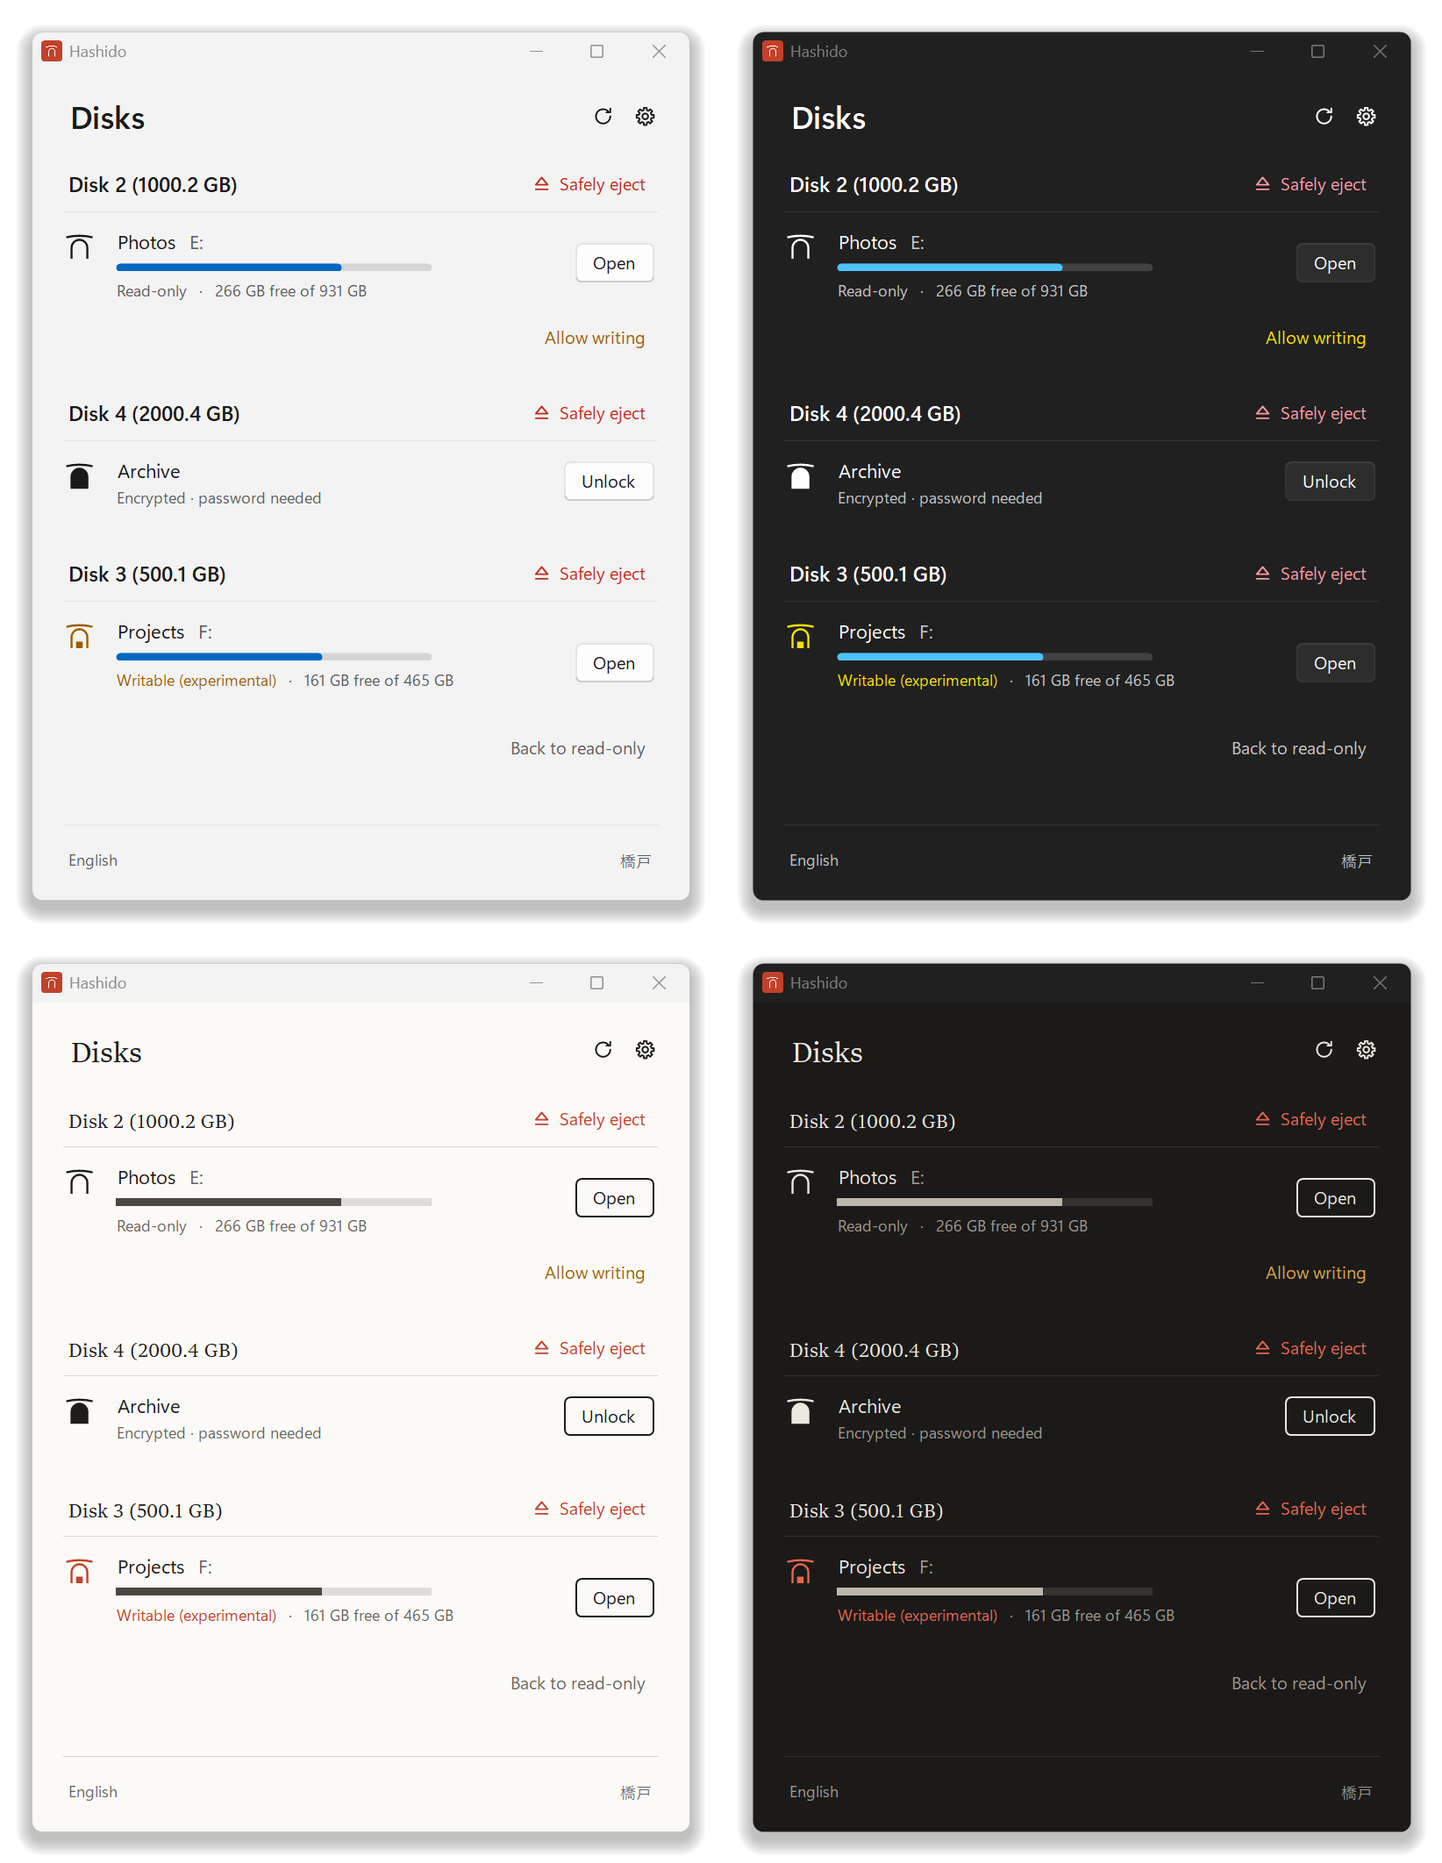
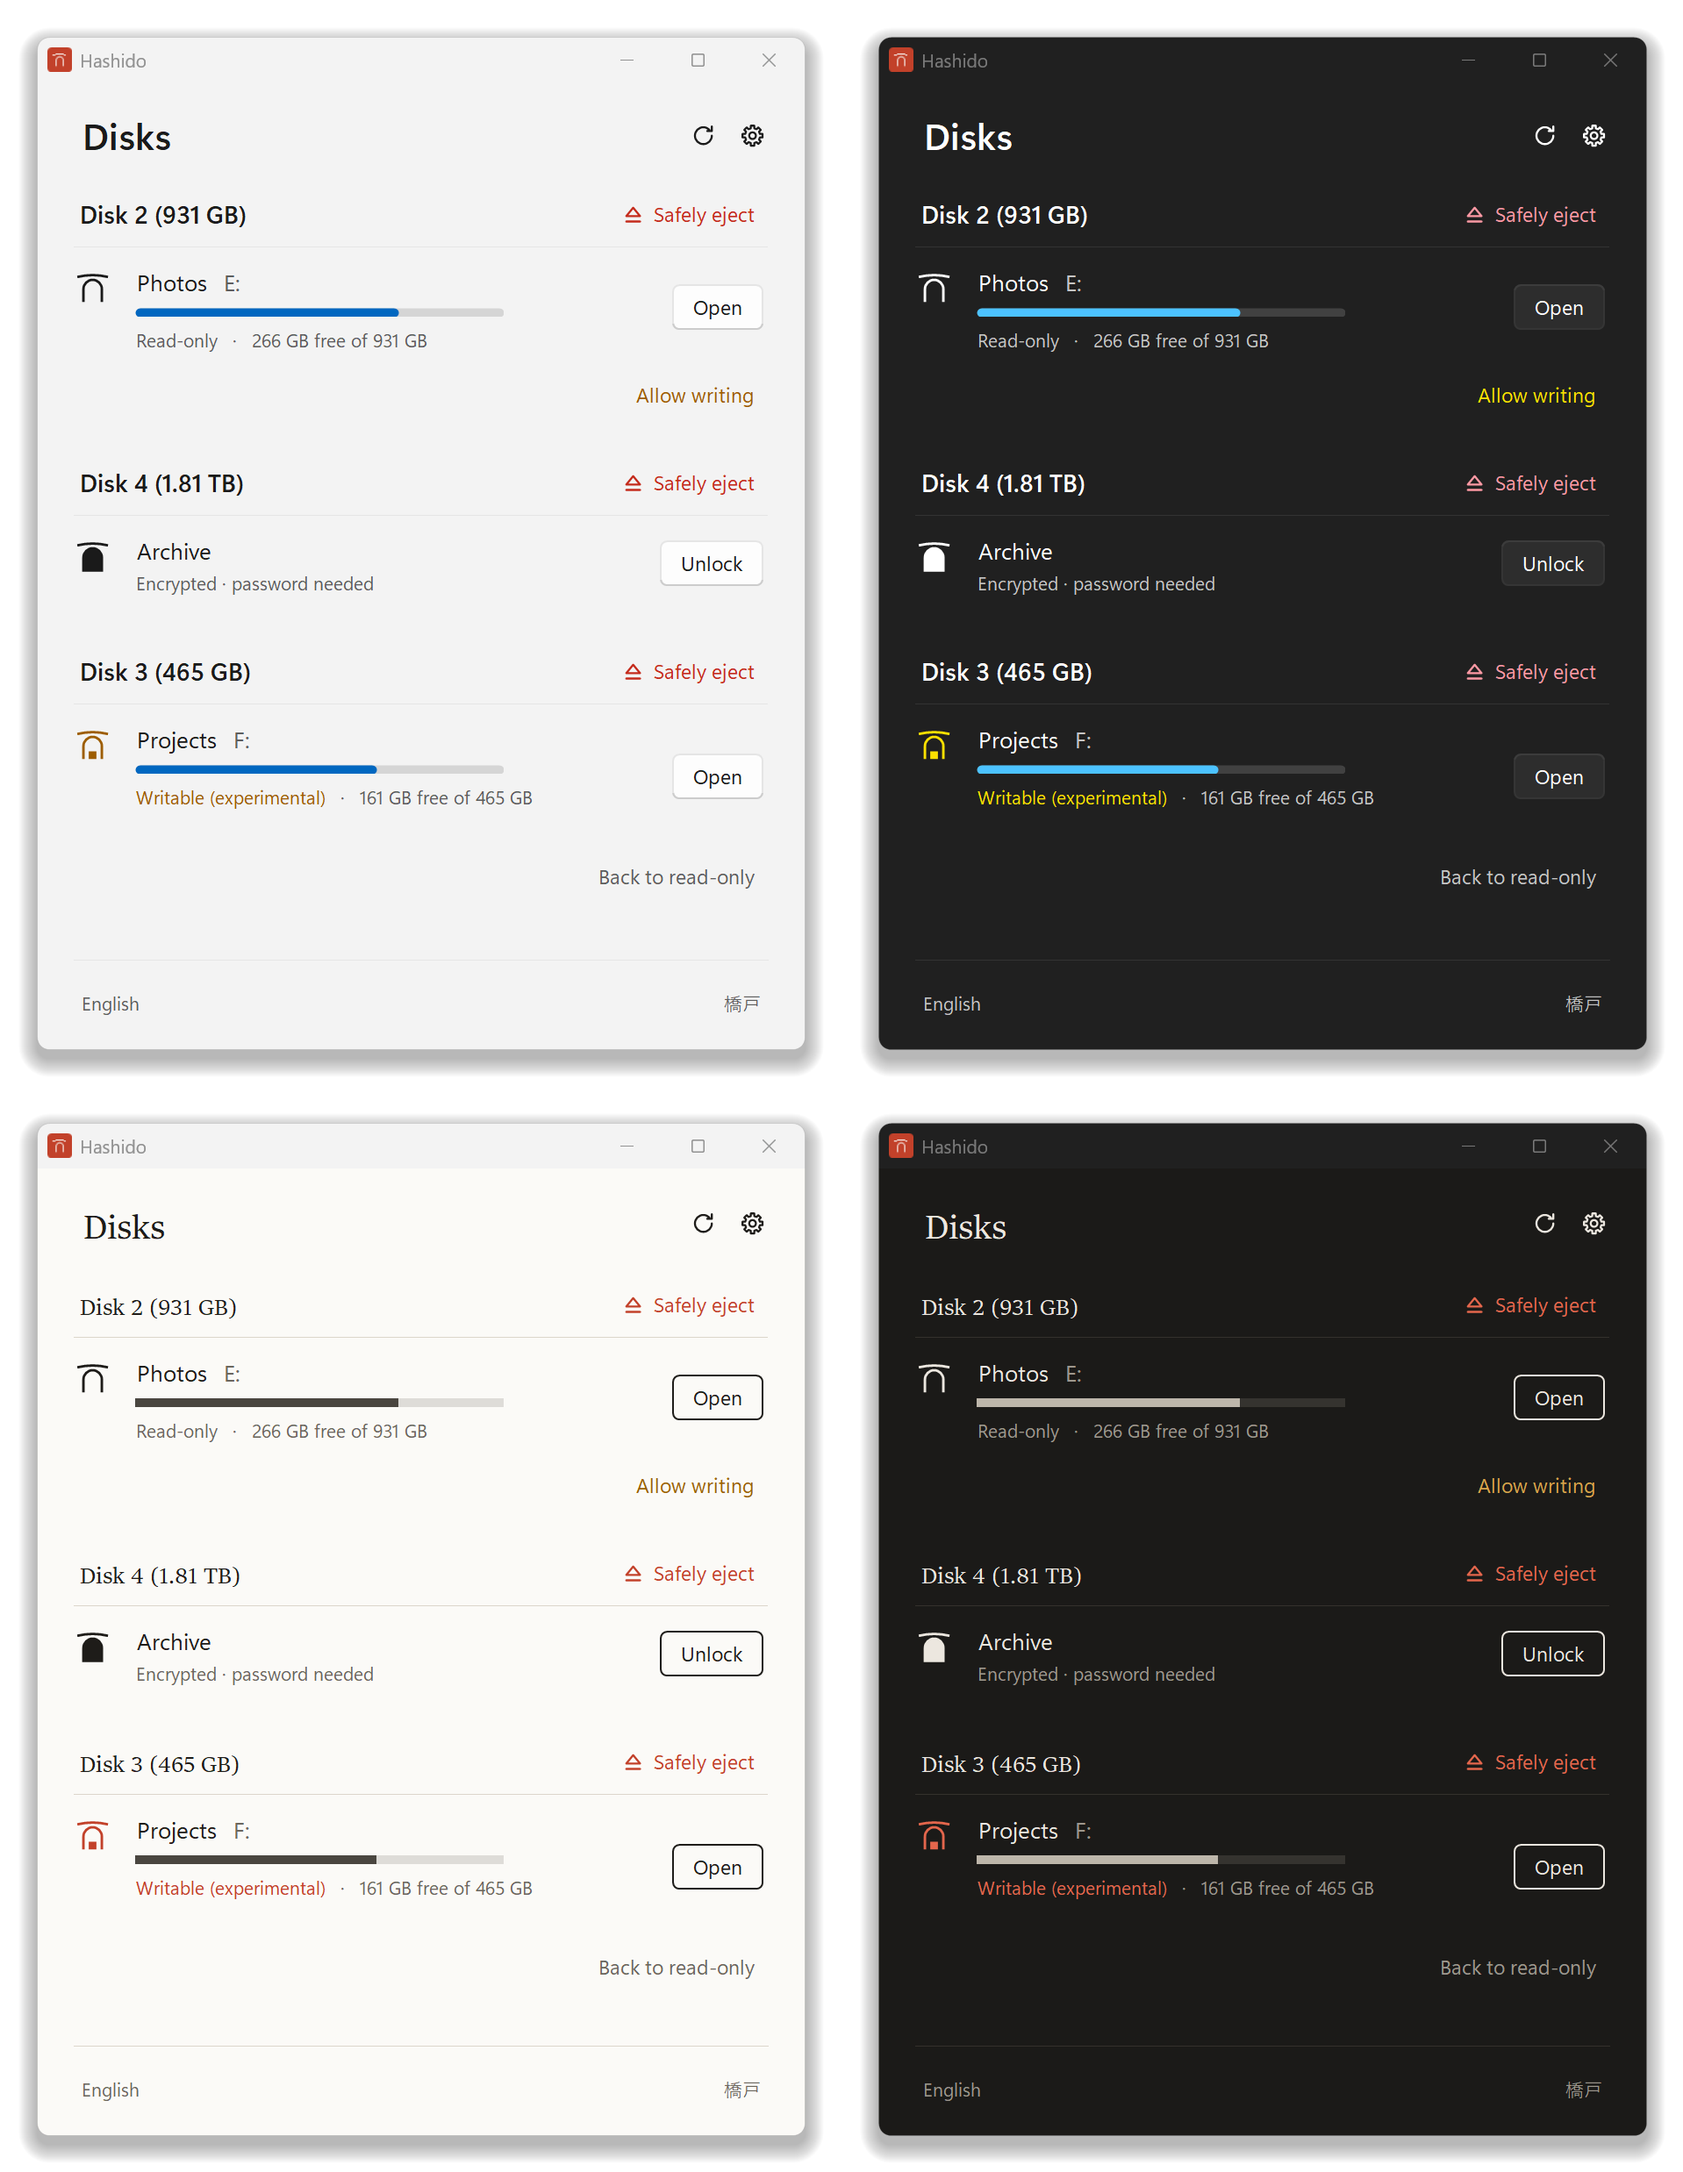
Hashido 1.7.1: the disk size in the disk heading uses binary units like File Explorer; a second request while writing is being switched gets the right message; README images refreshed / Hashido 1.7.1: disk basligindaki boyut Gezgin gibi ikili birimle; yazma gecisi surerken ikinci istek dogru iletiyi
Kaynak: ea7fce0

diff --git a/src/Apfs.Service/MountManager.cs b/src/Apfs.Service/MountManager.cs
@@ -9,6 +9,7 @@ using Apfs.Partitions;
 using Apfs.Volume;
 using Apfs.Windows;
 using Apfs.Windows.Ipc;
+using Apfs.Windows.Localization;
 using Apfs.Windows.Reporting;
 using Apfs.Write;
 
@@ -540,6 +541,8 @@ internal sealed class MountManager : IDisposable
     /// öbür bölümlere dokunulmaz). Açarken: bölümün birimleri ayrılır, bölüm diskten yeniden açılıp yazma kapısından geçirilir;
     /// geçerse yazma izniyle açılıp yazılabilir bağlanır, geçmezse salt okunur yeniden bağlanır ve neden karta yazılır.
     /// Kapatırken: sürücü ayrılır, son değişiklikler kaydedilir (blok 0 dahil), bölüm salt okunur yeniden bağlanır.
+    /// Geçiş (<c>Switching</c>) denetimi bölüm denetiminden ÖNCE (Unlock'taki sıra): geçiş sürerken bölüm ne salt okunur ne
+    /// yazılabilir listededir; ikinci istek "böyle bir bölüm yok" değil "önceki istek henüz bitmedi" almalı (1.7.1).
     /// </summary>
     public UnlockResponse SetWritable(string diskKey, int container, bool enable, bool force)
     {
@@ -548,6 +551,7 @@ internal sealed class MountManager : IDisposable
         {
             disk = _disks.GetValueOrDefault(diskKey);
             if (disk is null) return new UnlockResponse(false, WinText.U("Disk.Gone"));
+            if (disk.Switching.Contains(container)) return new UnlockResponse(false, WinText.U("Write.PreviousRequestPending"));
             if (!disk.Containers.ContainsKey(container) && !disk.Writes.ContainsKey(container))
                 return new UnlockResponse(false, WinText.U("Write.NoSuchPartition"));
             bool writable = disk.Writes.ContainsKey(container);
@@ -1032,10 +1036,13 @@ internal sealed class MountManager : IDisposable
     private void OnFileError(string description, string volumeName, string volumeKey, string msg) =>
         AddNotice("uyarı", $"{description} \"{volumeName}\": {msg}", throttleKey: msg, queueKey: volumeKey, queueWindow: FileErrorNoticeWindow);
 
+    /// <summary>
+    /// Disk başlığı (tepsi, menü, bildirimler). Boyut birim satırı ve Gezgin gibi ikili birimle, tek biçimleyiciden
+    /// (<see cref="SizeText"/>; 1.7.1'e dek ondalıktı: 1 TB disk "1000,2 GB", birim satırı "931 GB").
+    /// </summary>
     private static string DescribeDisk(string key, IBlockDevice device)
     {
-        double gb = device.Length / 1e9;
-        string size = gb >= 1 ? $"{gb:0.#} GB" : $"{device.Length / 1e6:0.#} MB";
+        string size = SizeText.Format(device.Length);
         return key.StartsWith("PhysicalDrive", StringComparison.OrdinalIgnoreCase) ? WinText.U("Disk.PhysicalName", key[13..], size) : $"{Path.GetFileName(key)} ({size})";
     }
 

diff --git a/README.md b/README.md
@@ -27,7 +27,7 @@ Plug the disk in and within a few seconds it shows up in File Explorer with a dr
 | 10 interface languages | English, Türkçe, Deutsch, Français, Español, Português (Brasil), Italiano, 日本語, 简体中文, 한국어 |
 
 ## Installation
-Run `Hashido-Setup-1.7.0.exe` and follow the wizard (Next › Install › Finish). Windows 10/11 (64-bit) is all you need;
+Run `Hashido-Setup-1.7.1.exe` and follow the wizard (Next › Install › Finish). Windows 10/11 (64-bit) is all you need;
 nothing else has to be installed: .NET comes with the program, and if the [WinFsp](https://winfsp.dev) driver is missing the wizard
 installs it too. After installation, **Hashido** is in the Start menu and the tray icon starts automatically at every sign-in.
 

diff --git a/README.tr.md b/README.tr.md
@@ -27,7 +27,7 @@ Diski takarsınız, birkaç saniye içinde Dosya Gezgini'nde sürücü harfi ola
 | 10 arayüz dili | Türkçe, English, Deutsch, Français, Español, Português (Brasil), Italiano, 日本語, 简体中文, 한국어 |
 
 ## Kurulum
-`Hashido-Setup-1.7.0.exe` dosyasını çalıştırın ve sihirbazı izleyin (İleri › Kur › Son). Windows 10/11 (64 bit) yeter;
+`Hashido-Setup-1.7.1.exe` dosyasını çalıştırın ve sihirbazı izleyin (İleri › Kur › Son). Windows 10/11 (64 bit) yeter;
 başka bir şey kurmanız gerekmez: .NET programla birlikte gelir, [WinFsp](https://winfsp.dev) sürücüsü yoksa sihirbaz onu da kurar.
 Kurulumdan sonra Başlat menüsünde **Hashido** bulunur ve tepsi simgesi her oturumda kendiliğinden açılır.
 
